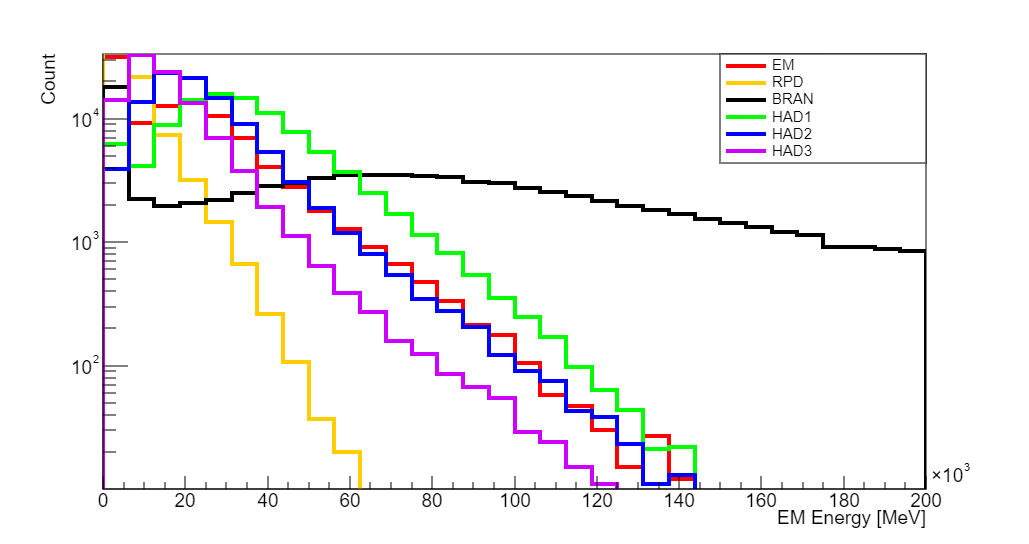
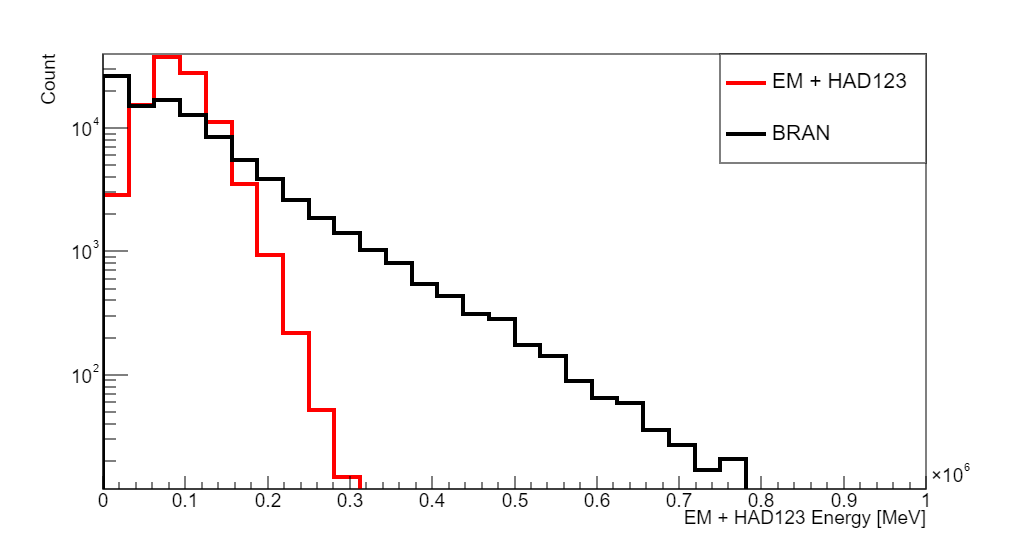
Final set of plots

diff --git a/scripts/plot_no_rpd_sum_energy_dists.cpp b/scripts/plot_no_rpd_sum_energy_dists.cpp
@@ -1,0 +1,98 @@
+#include "TFile.h"
+#include "TTreeReader.h"
+#include "TTreeReaderArray.h"
+#include "TH1.h" // 2-dimensional histograms, for full docs see https://root.cern.ch/doc/master/classTH2.html
+#include "TCanvas.h"
+#include "TLegend.h"
+#include "TLegendEntry.h"
+
+#include "../include/ZDCModule.h"
+#include "../include/Axis.h"
+
+std::string const SIM_FILE_PATH = "./data/SingleNeutronNew_2024-05-19_NTUP.root";
+std::string const OUT_FILE_PATH = "./plots/no_rpd_sum_energy_dists.root";
+
+inline void plot_no_rpd_sum_energy_dists() {
+  TH1::AddDirectory(false);
+  
+  TFile* dataFile = TFile::Open(SIM_FILE_PATH.c_str());
+
+  TTreeReader reader("zdcTree", dataFile);
+  TTreeReaderArray<float> zdc_ZdcModuleTruthTotal(reader, "zdc_ZdcModuleTruthTotal");
+
+  std::array<TH1D*, 2> EM_HAD123_hists {};
+  std::array<TH1D*, 2> BRAN_hists {};
+  for (auto const& side : SIDES) {
+    EM_HAD123_hists.at(side) = new TH1D(Form("side%c_em_had123_energy", getSideLabel(side)), 
+        ";EM + HAD123 Energy [MeV];Count", BINS(axis::BRANTruth.withBins(32)));
+    BRAN_hists.at(side) = new TH1D(Form("side%c_bran_energy", getSideLabel(side)), 
+        ";BRAN Energy [MeV];Count", BINS(axis::BRANTruth.withBins(32)));
+  }
+
+  while (reader.Next()) {
+    for (auto const& side : SIDES) {
+      EM_HAD123_hists.at(side)->Fill(zdc_ZdcModuleTruthTotal.At(getModuleIndex(side, SimModule::EM)) +
+           zdc_ZdcModuleTruthTotal.At(getModuleIndex(side, SimModule::HAD1)) +
+           zdc_ZdcModuleTruthTotal.At(getModuleIndex(side, SimModule::HAD2)) +
+           zdc_ZdcModuleTruthTotal.At(getModuleIndex(side, SimModule::HAD3))
+      );
+      BRAN_hists.at(side)->Fill(zdc_ZdcModuleTruthTotal.At(getModuleIndex(side, SimModule::BRAN)));
+    }
+  }
+
+  dataFile->Close();
+
+//   TFile* plotFile = TFile::Open(OUT_FILE_PATH.c_str(), "RECREATE");
+//   for (auto const& side : SIDES) {
+//     EM_hists.at(side)->Write();
+//     RPD_hists.at(side)->Write();
+//     BRAN_hists.at(side)->Write();
+//     HAD1_hists.at(side)->Write();
+//     HAD2_hists.at(side)->Write();
+//     HAD3_hists.at(side)->Write();
+//   }
+//   plotFile->Close();
+
+//   for (unsigned int side : SIDES) {
+//     delete EM_hists.at(side);
+//     delete RPD_hists.at(side);
+//     delete BRAN_hists.at(side);
+//     delete HAD1_hists.at(side);
+//     delete HAD2_hists.at(side);
+//     delete HAD3_hists.at(side);
+//   }
+
+    std::array<TCanvas*, 2> overlays {};
+    TLegend * leg = new TLegend(0.7, 0.7, 0.9, 0.9);
+    for (auto const& side : SIDES) {
+        overlays.at(side) = new TCanvas(Form("side%c_energies", getSideLabel(side)), 
+        Form("Side %c Energy Distributions", getSideLabel(side)), 800, 600);
+        
+        EM_HAD123_hists.at(side)->Draw();
+        BRAN_hists.at(side)->Draw("SAME");
+
+        EM_HAD123_hists.at(side)->SetLineColor(kRed);
+        BRAN_hists.at(side)->SetLineColor(kBlack);
+
+        EM_HAD123_hists.at(side)->SetLineWidth(4);
+        BRAN_hists.at(side)->SetLineWidth(4);
+
+
+        TLegend * leg = new TLegend(0.7, 0.7, 0.9, 0.9);
+        leg->AddEntry(EM_HAD123_hists.at(side), "EM + HAD123", "l");
+        leg->AddEntry(BRAN_hists.at(side), "BRAN", "l");
+        leg->Draw();
+    }
+    TFile* plotFile = TFile::Open(OUT_FILE_PATH.c_str(), "RECREATE");
+    for (auto const& side : SIDES) {
+        overlays.at(side)->Write();
+    }
+    plotFile->Close();
+
+    for (unsigned int side : SIDES) {
+        delete EM_HAD123_hists.at(side);
+        delete BRAN_hists.at(side);
+        delete overlays.at(side);
+    }
+
+}
